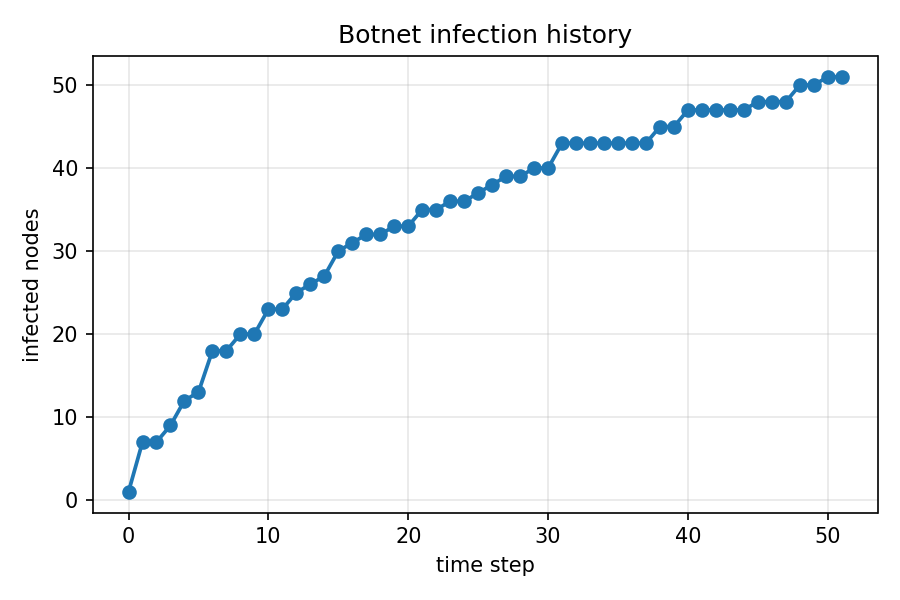
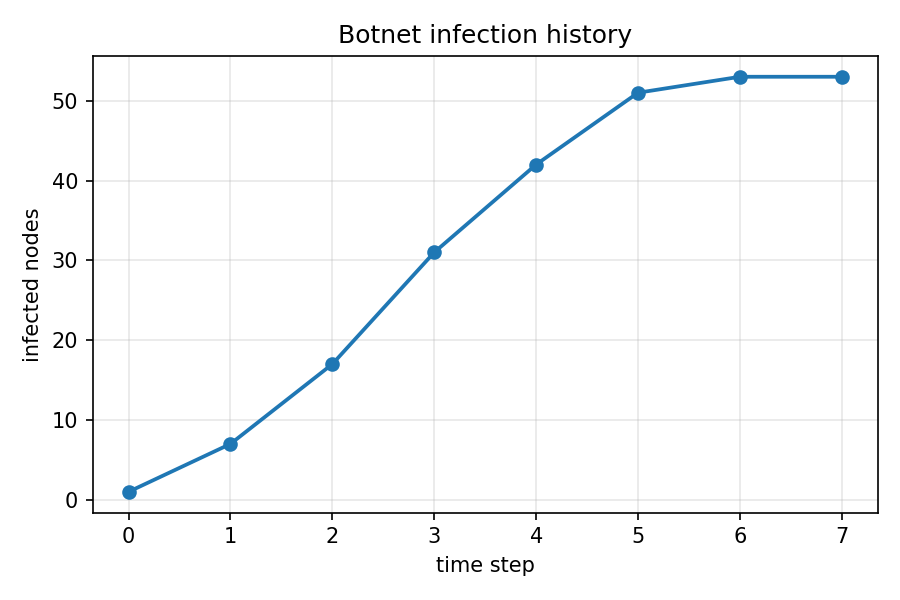
Milestone 1: synchronous round-based infection (matches roadmap discrete-time model)

diff --git a/src/milestone1.py b/src/milestone1.py
@@ -127,28 +127,48 @@ def simulate_botnet(
     initial_compromised: set[int],
     seed: int = 7,
 ) -> Dict[str, object]:
-    """Simulate a simple botnet outbreak over the graph.
+    """Simulate a synchronous, discrete-time botnet outbreak over the graph.
 
-    The infection spreads from an initial compromised seed to neighbors with the
-    edge-specific probability stored in edge_probabilities. The function returns
-    the infected set and a history of infection sizes over time.
+    Implements the roadmap's z_v(t) notion of discrete time steps: at each round
+    t, every node infected as of round t-1 (the current "frontier") independently
+    attempts to infect each of its still-uninfected neighbors via that edge's
+    p_uv. All of a round's Bernoulli trials are checked against the infected set
+    as it stood at the START of the round, so simultaneous infections from
+    different frontier nodes land in the SAME history entry instead of being
+    spread across several node-by-node entries. This makes infection_history
+    track genuine discrete time steps (comparable across graphs/methods), and
+    gives Milestone 3's RL agent a natural point to prune edges between rounds.
     """
     rng = random.Random(seed)
     infected_nodes = set(initial_compromised)
     infection_history: List[int] = [len(infected_nodes)]
 
-    frontier = list(initial_compromised)
+    # `frontier` holds only the nodes infected in the PREVIOUS round; only they
+    # attempt new infections this round. Already-infected nodes from earlier
+    # rounds never re-attempt, since each edge is tried exactly once, at the
+    # round when its infected endpoint first joins the frontier.
+    frontier = set(initial_compromised)
     while frontier:
-        current = frontier.pop()
-        for neighbor in graph.neighbors(current):
-            if neighbor in infected_nodes:
-                continue
-            edge_key = (current, neighbor) if (current, neighbor) in edge_probabilities else (neighbor, current)
-            p_uv = edge_probabilities[edge_key]
-            if rng.random() < p_uv:
-                infected_nodes.add(neighbor)
-                frontier.append(neighbor)
+        next_frontier: set[int] = set()  # nodes newly infected THIS round
+        # Sort for a deterministic RNG draw order, so a fixed seed always
+        # reproduces the same rollout regardless of Python's set iteration order.
+        for current in sorted(frontier):
+            for neighbor in graph.neighbors(current):
+                # Compare against infected_nodes (start-of-round state), not
+                # next_frontier, so every incoming edge still gets its own
+                # independent Bernoulli trial even if another frontier node
+                # already recruited this neighbor earlier in the same round.
+                if neighbor in infected_nodes:
+                    continue
+                edge_key = (current, neighbor) if (current, neighbor) in edge_probabilities else (neighbor, current)
+                p_uv = edge_probabilities[edge_key]
+                if rng.random() < p_uv:
+                    next_frontier.add(neighbor)
+        # Commit the whole round's newly-infected nodes at once, so they land
+        # together in a single infection_history entry (one real time step).
+        infected_nodes.update(next_frontier)
         infection_history.append(len(infected_nodes))
+        frontier = next_frontier
 
     return {
         "infected_nodes": infected_nodes,

diff --git a/tests/test_milestone1.py b/tests/test_milestone1.py
@@ -44,6 +44,29 @@ class Milestone1Tests(unittest.TestCase):
         self.assertEqual(result["infected_nodes"], {0})
         self.assertEqual(result["infection_history"][0], 1)
 
+    def test_simulate_botnet_batches_simultaneous_infections_into_one_round(self):
+        # A small branching graph: seed 0 has two children (1, 2), each of which
+        # has one further child (3, 4). Round 1 should infect {1, 2} together,
+        # and round 2 should infect {3, 4} together, if simulate_botnet is truly
+        # synchronous rather than processing one node at a time.
+        graph = nx.Graph()
+        graph.add_edges_from([(0, 1), (0, 2), (1, 3), (2, 4)])
+        node_features = {node: {"risk": 0.0, "hub_score": 0.0, "community": 0} for node in graph.nodes}
+        edge_features = {(u, v): {"interaction": 0.0} for u, v in graph.edges}
+        # A large bias with all other weights zeroed drives every p_uv to
+        # sigmoid(50), which rounds to exactly 1.0 in float64 -- so every
+        # edge trial is guaranteed to succeed and the rollout is deterministic.
+        probabilities = compute_edge_infection_probabilities(graph, node_features, edge_features, beta=[50.0, 0.0, 0.0, 0.0, 0.0, 0.0, 0.0])
+
+        result = simulate_botnet(graph, probabilities, initial_compromised={0}, seed=1)
+
+        self.assertEqual(result["infected_nodes"], {0, 1, 2, 3, 4})
+        # Round 0: seed only (1). Round 1: +{1,2} together (3). Round 2: +{3,4}
+        # together (5). Round 3: no new neighbors left, frontier empties (5).
+        # A node-by-node cascade (rather than round-synchronous) would instead
+        # spread {1,2} and {3,4} across separate history entries.
+        self.assertEqual(result["infection_history"], [1, 3, 5, 5])
+
     def test_plotting_helpers_save_png_files(self):
         graph = build_social_iot_graph(n_nodes=20, m=2, seed=3)
         with tempfile.TemporaryDirectory() as temp_dir:
